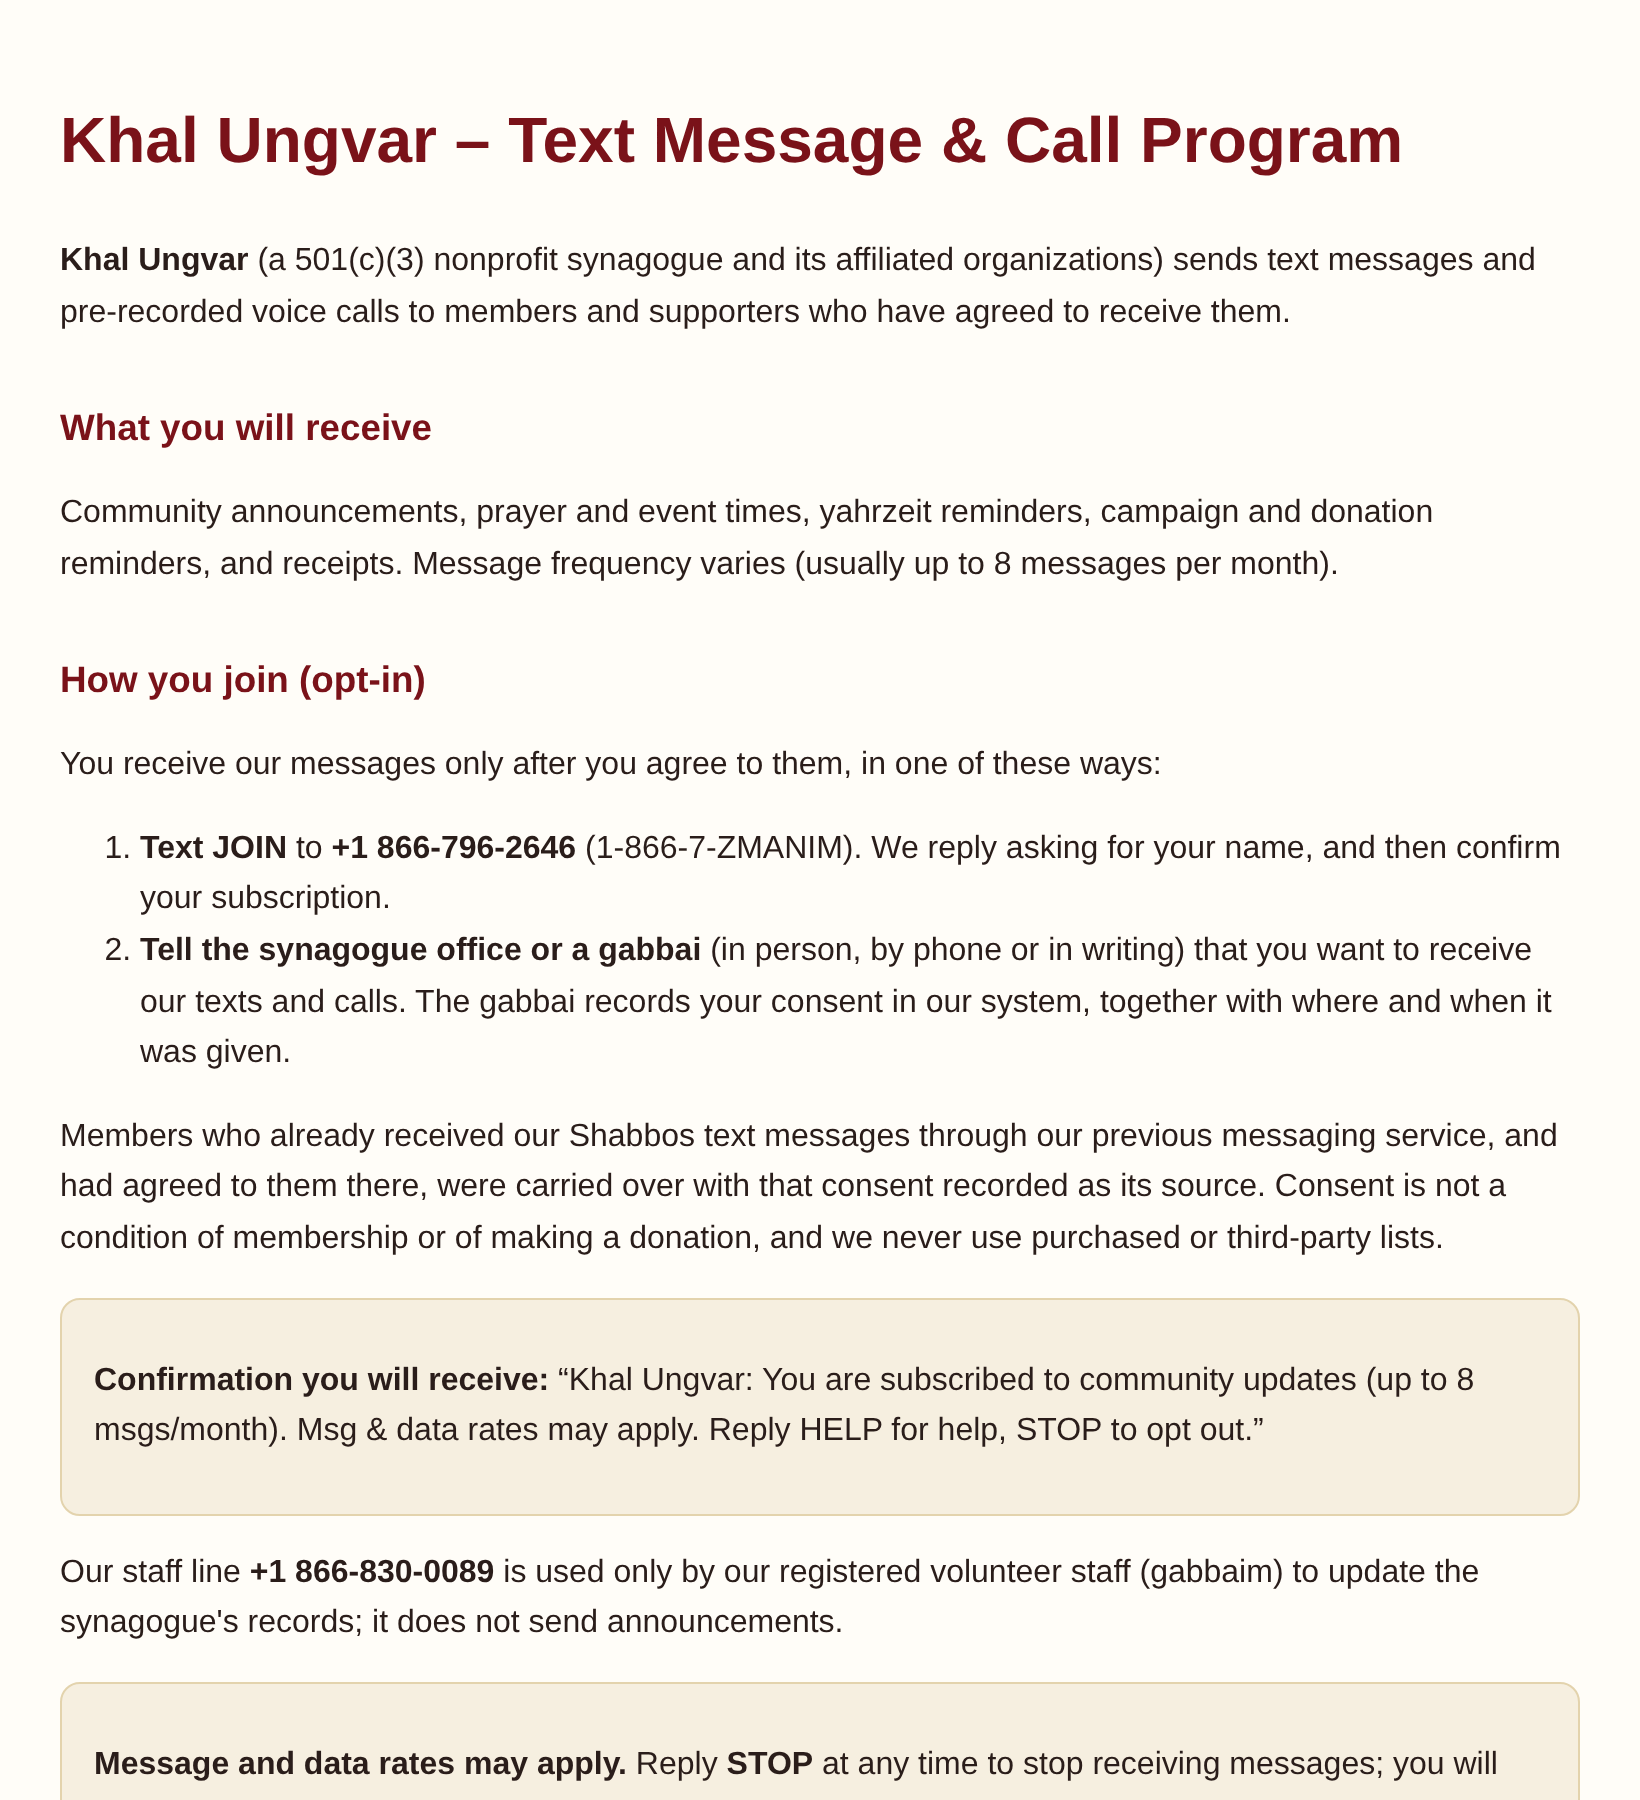
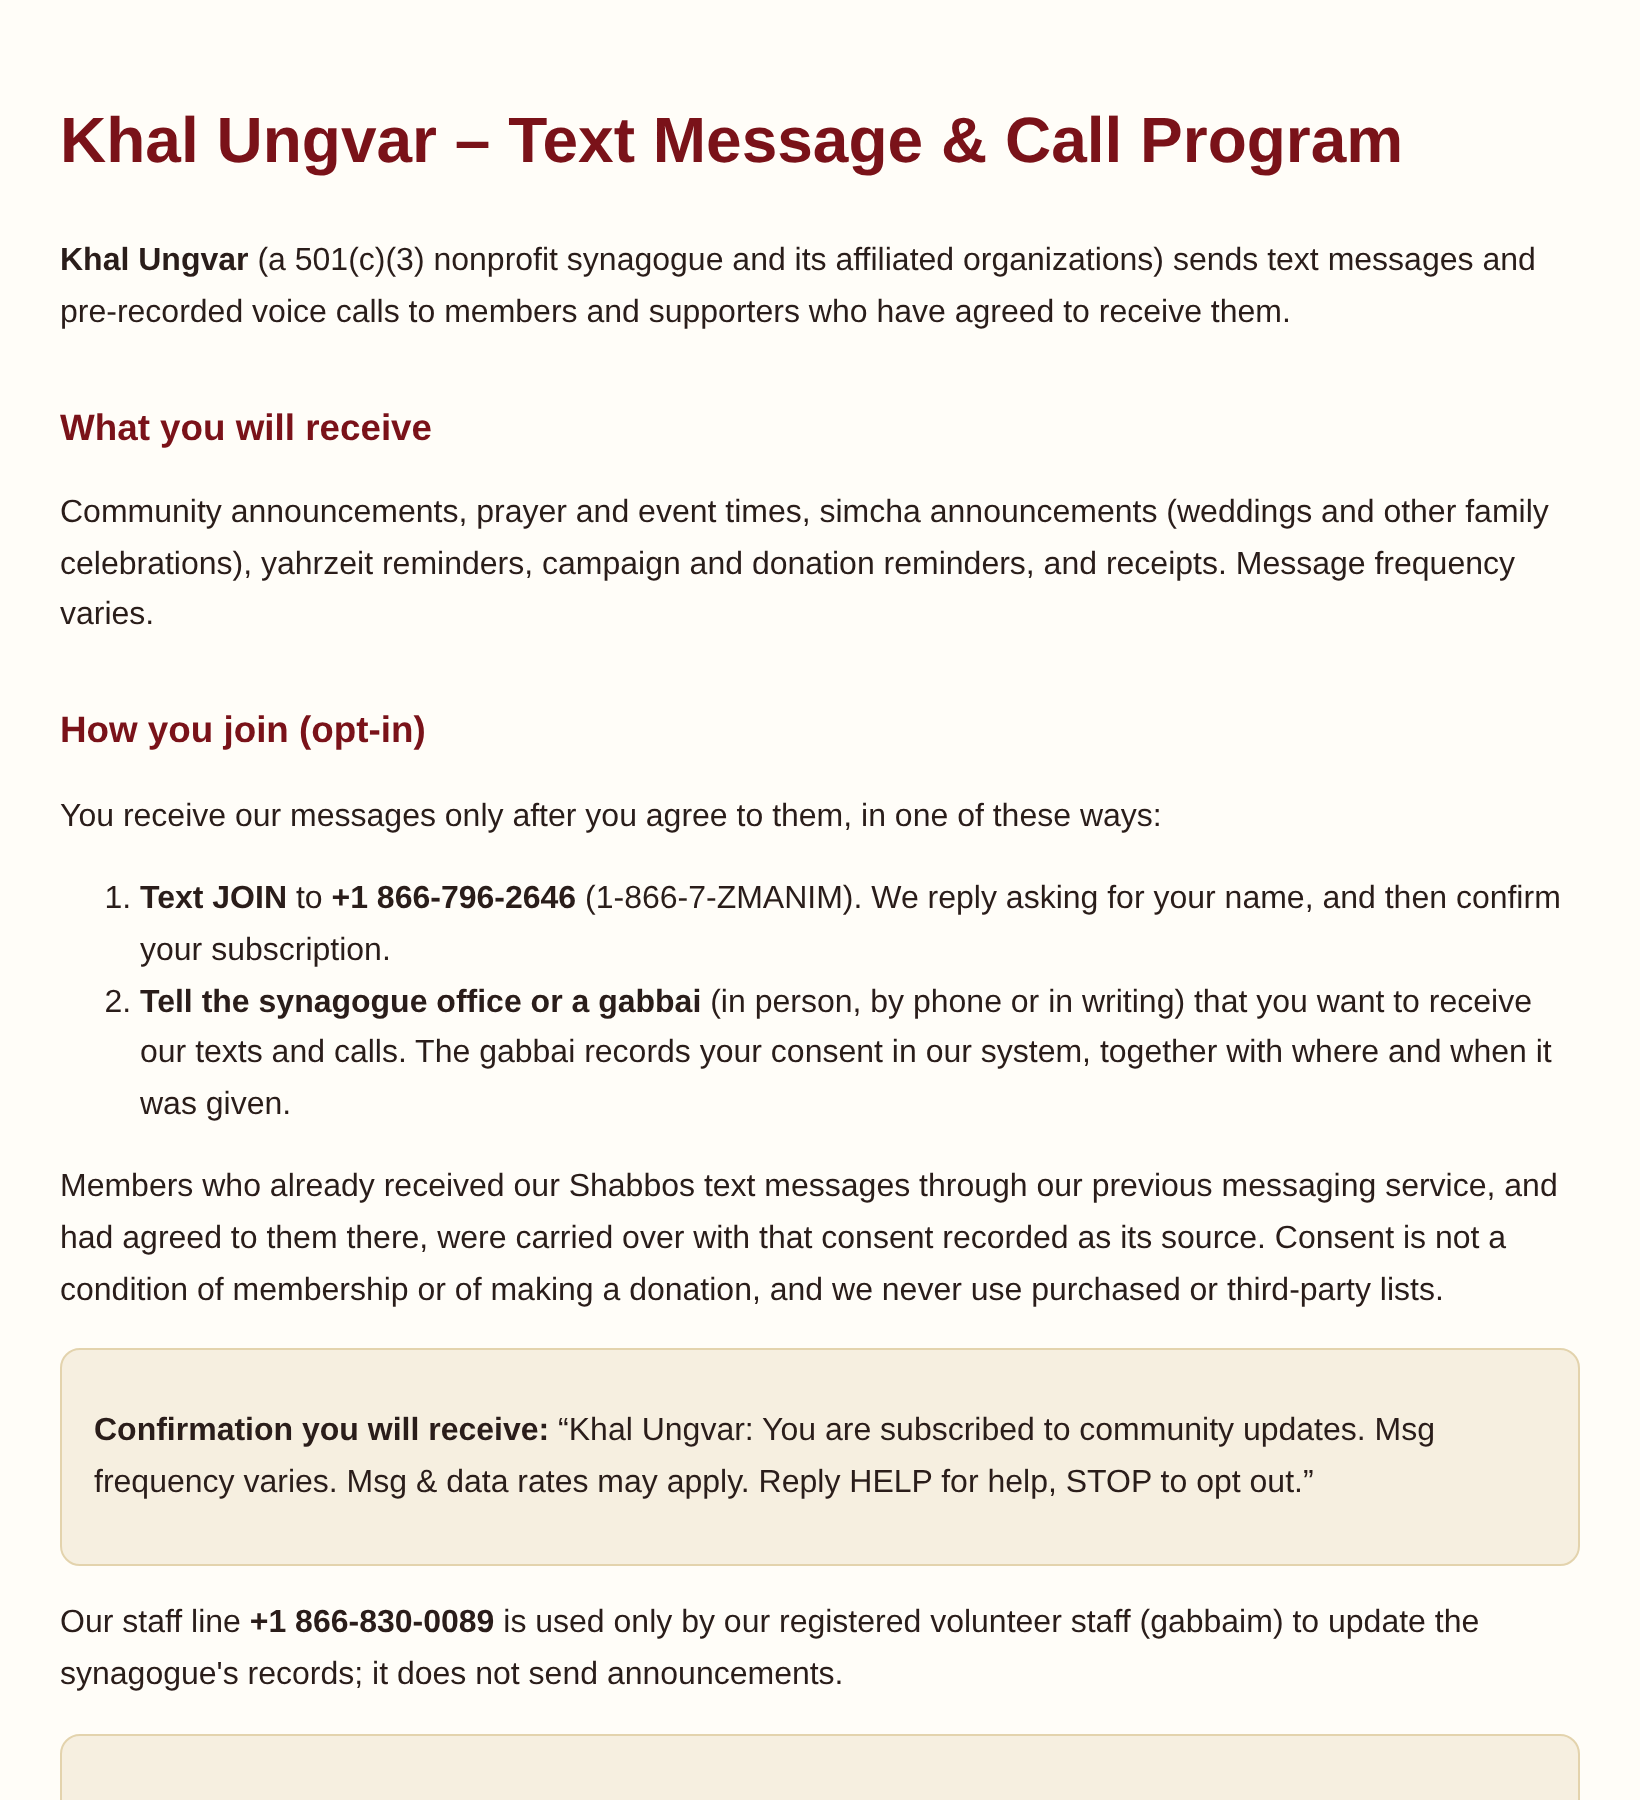
SMS terms: frequency varies, simcha announcements
Claude-Session: https://claude.ai/code/session_01HNngG18RqSZL1sRHYr8BZT

Changed region(s): [[0.0311, 0.3733, 0.964, 0.9956], [0.0311, 0.28, 0.9329, 0.3422], [0.9329, 0.84, 0.964, 0.8711]]

diff --git a/sms.html b/sms.html
@@ -16,7 +16,7 @@
   <p><b>Khal Ungvar</b> (a 501(c)(3) nonprofit synagogue and its affiliated organizations) sends text messages and pre-recorded voice calls to members and supporters who have agreed to receive them.</p>
 
   <h2>What you will receive</h2>
-  <p>Community announcements, prayer and event times, yahrzeit reminders, campaign and donation reminders, and receipts. Message frequency varies (usually up to 8 messages per month).</p>
+  <p>Community announcements, prayer and event times, simcha announcements (weddings and other family celebrations), yahrzeit reminders, campaign and donation reminders, and receipts. Message frequency varies.</p>
 
   <h2>How you join (opt-in)</h2>
   <p>You receive our messages only after you agree to them, in one of these ways:</p>
@@ -26,7 +26,7 @@
   </ol>
   <p>Members who already received our Shabbos text messages through our previous messaging service, and had agreed to them there, were carried over with that consent recorded as its source. Consent is not a condition of membership or of making a donation, and we never use purchased or third-party lists.</p>
   <div class="box">
-    <p><b>Confirmation you will receive:</b> “Khal Ungvar: You are subscribed to community updates (up to 8 msgs/month). Msg &amp; data rates may apply. Reply HELP for help, STOP to opt out.”</p>
+    <p><b>Confirmation you will receive:</b> “Khal Ungvar: You are subscribed to community updates. Msg frequency varies. Msg &amp; data rates may apply. Reply HELP for help, STOP to opt out.”</p>
   </div>
   <p>Our staff line <b>+1 866-830-0089</b> is used only by our registered volunteer staff (gabbaim) to update the synagogue's records; it does not send announcements.</p>
 
